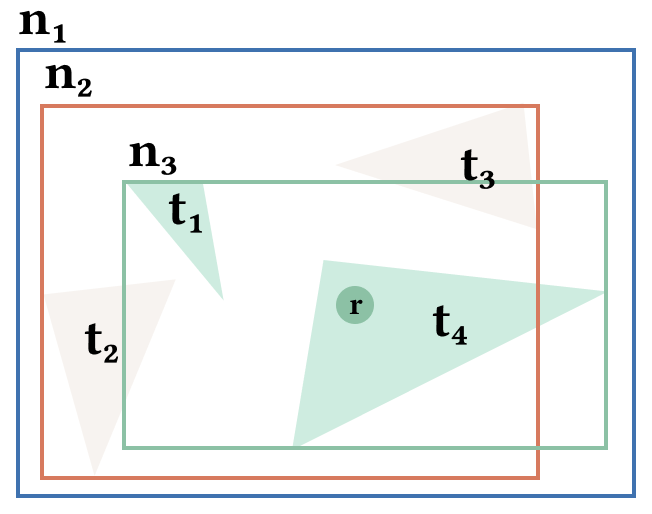
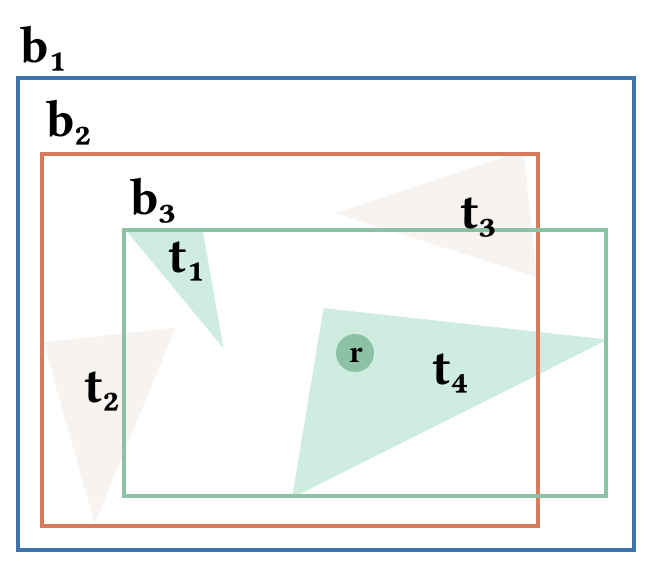
Extend bvh theory

diff --git a/report/parts/theory.tex b/report/parts/theory.tex
@@ -206,22 +206,22 @@ In order to accelerate the intersection testing, various approaches have been de
 
 The bounding volume hierarchy (\gls{BVH}) is an acceleration structure which is leveraged to speed up the ray intersection tests. This method is widely used in ray tracing and has been studied for a long time \cite{rubinWhittedBvh}. The core idea is to group adjacent objects in a bounding volume and structure the hierarchy in a way that all child elements of a node are contained in the bounding volume of the parent node. This allows for early rejection of branches which are not intersected by the ray. By employing a \gls{BVH}, the number of intersection tests ($n$) can be reduced from $O(n)$ to $O(log(n))$.
 
-A bounding box ($b$) can be defined as $b = (min, max)$ where $min$ and $max$ are the minimum and maximum vertices of the bounding box. The boxes are then grouped into a hierarchy where the maximum and minimum vertices of the children define the bounding box of the parent. This is visualized in \autoref{fig:bvhVisualized}.
+A bounding box ($b$) can be defined as $b = (min, max)$ where $min$ and $max$ are the minimum and maximum vertices of the bounding box. The boxes are then grouped into a hierarchy where the maximum and minimum vertices of the children define the bounding box of the parent. This is visualized in \autoref{fig:bvhVisualized}. Good performance of the \gls{BVH} depends on the quality of the hierarchy. A badly constructed \gls{BVH} can lead to a higher number of intersection tests as visualized in \autoref{fig:bvhBad} because intersections need to be tested against all elements: three bounding boxes and four triangles. For a well-constructed \gls{BVH}, the algorithm can reduce the number of intersection tests as visualized in \autoref{fig:bvhGood} by doing the minimum amount of intersection tests: $b_1$, which intersects, $b_2$ which can be discarded after checking and then $b_3$ necessitates further intersection tests for the two contained triangles. For such a small number of triangles, the overhead of the \gls{BVH} exceeds the benefits, but for larger scenes, the performance gain is significant as the amount of tests can be halved for well-balanced trees.
 
 \begin{figure}[H]
   \centering
   \begin{subfigure}[b]{0.45\textwidth}
       \includegraphics[width=\textwidth]{resources/bvh-bad-visualized.png}
-      \caption{Badly-constructed \gls{BVH} which requires eight intersection tests.}
+      \caption{Badly-constructed \gls{BVH} which requires seven intersection tests for $r$, essentially testing against all objects.}
       \label{fig:bvhBad}
   \end{subfigure}
   \hfill
   \begin{subfigure}[b]{0.45\textwidth}
     \includegraphics[width=\textwidth]{resources/bvh-good-visualized.png}
-    \caption{Well-constructed \gls{BVH} which reduces the required intersection tests to four.}
+    \caption{Well-constructed \gls{BVH} which reduces the required intersection tests for $r$ to four.}
     \label{fig:bvhGood}
   \end{subfigure}
-  \caption{Sample 2D \gls{BVH} visualization which contains four triangles ($t_1$ to $t_4$) and their corresponding bounding boxes $n1$ as parent and $n2$ as well as $n3$ as the children. $n1$ is visualized bigger than need be to improve readability. $r$ indicates the ray to be tested.}
+  \caption{Sample 2D \gls{BVH} visualization which contains four triangles ($t_1$ to $t_4$) and their corresponding bounding boxes $b_1$ as parent and $b_2$ as well as $b_3$ as the children. $b_1$ is visualized bigger than need be to improve readability. The color of the triangles indicates to which bounding box they belong. $r$ indicates the ray to be tested for intersection.}
   \label{fig:bvhVisualized}
 \end{figure}
 
